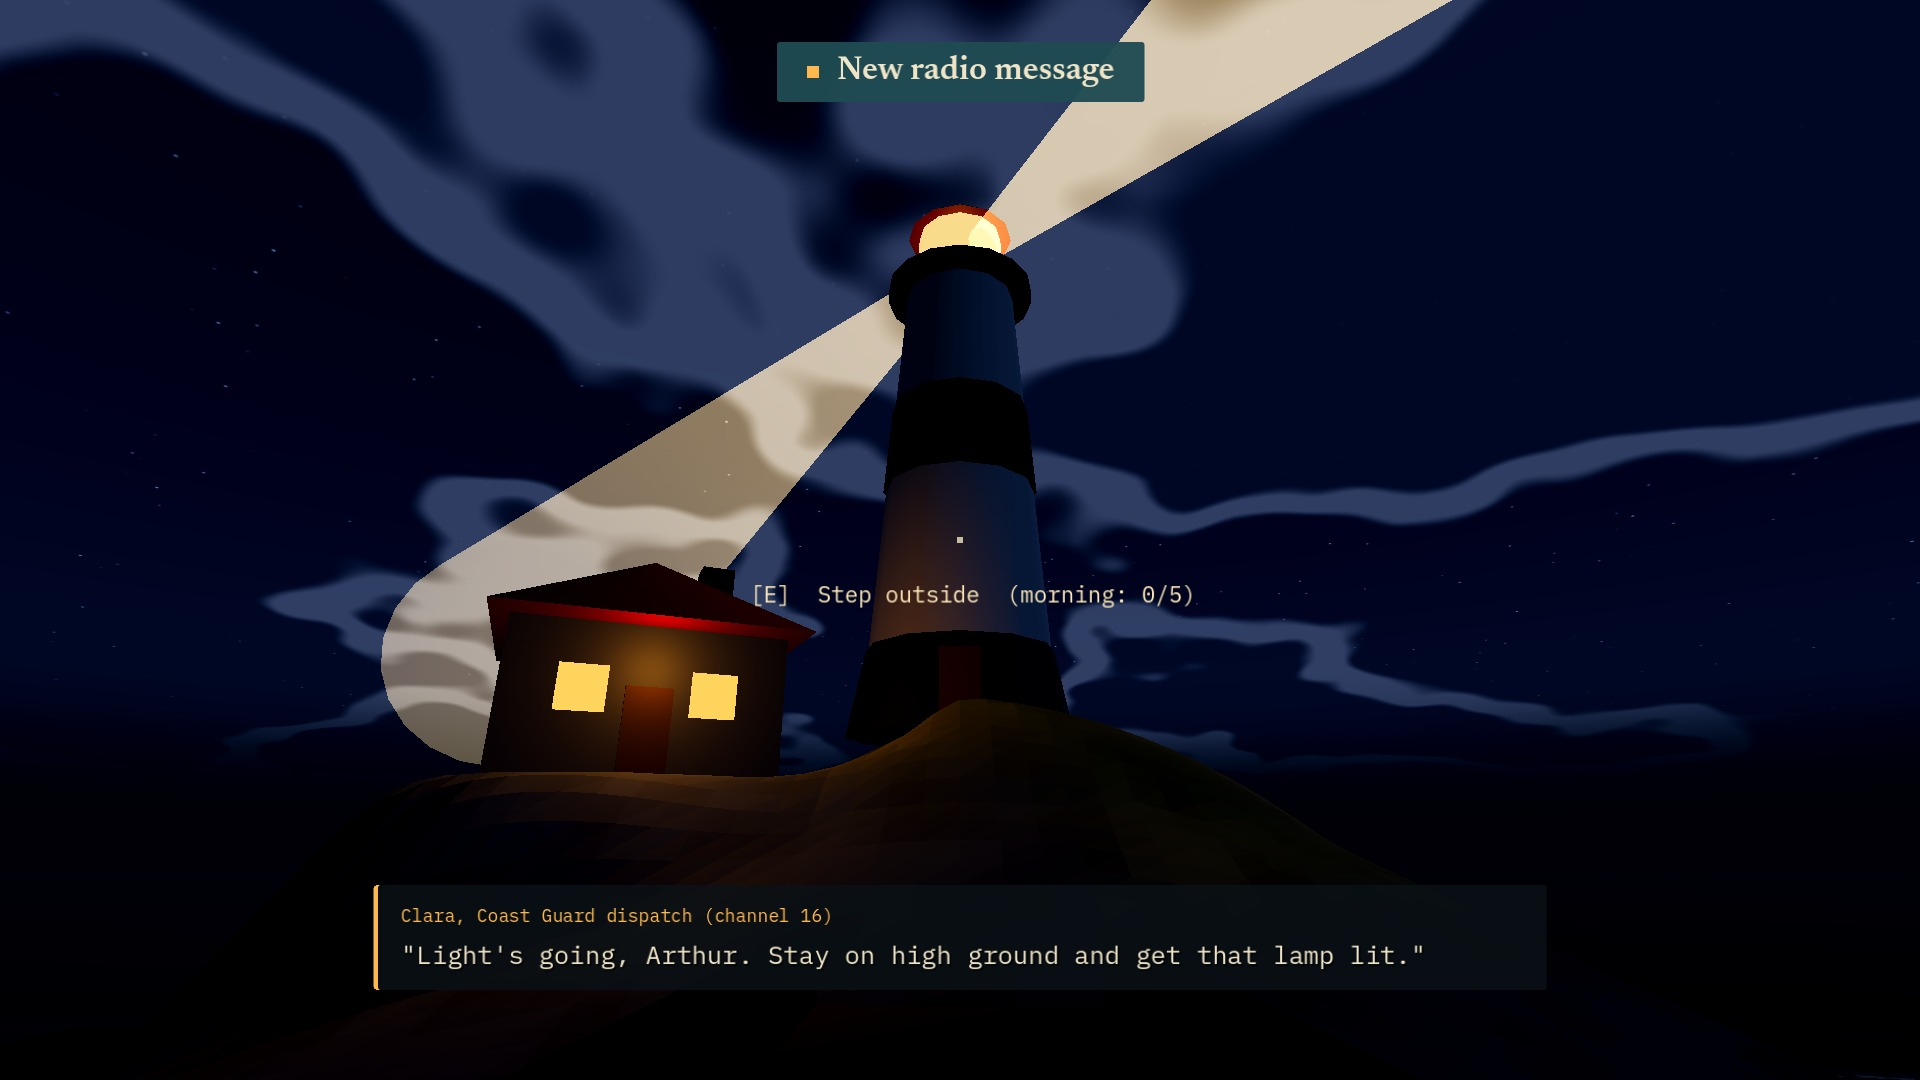
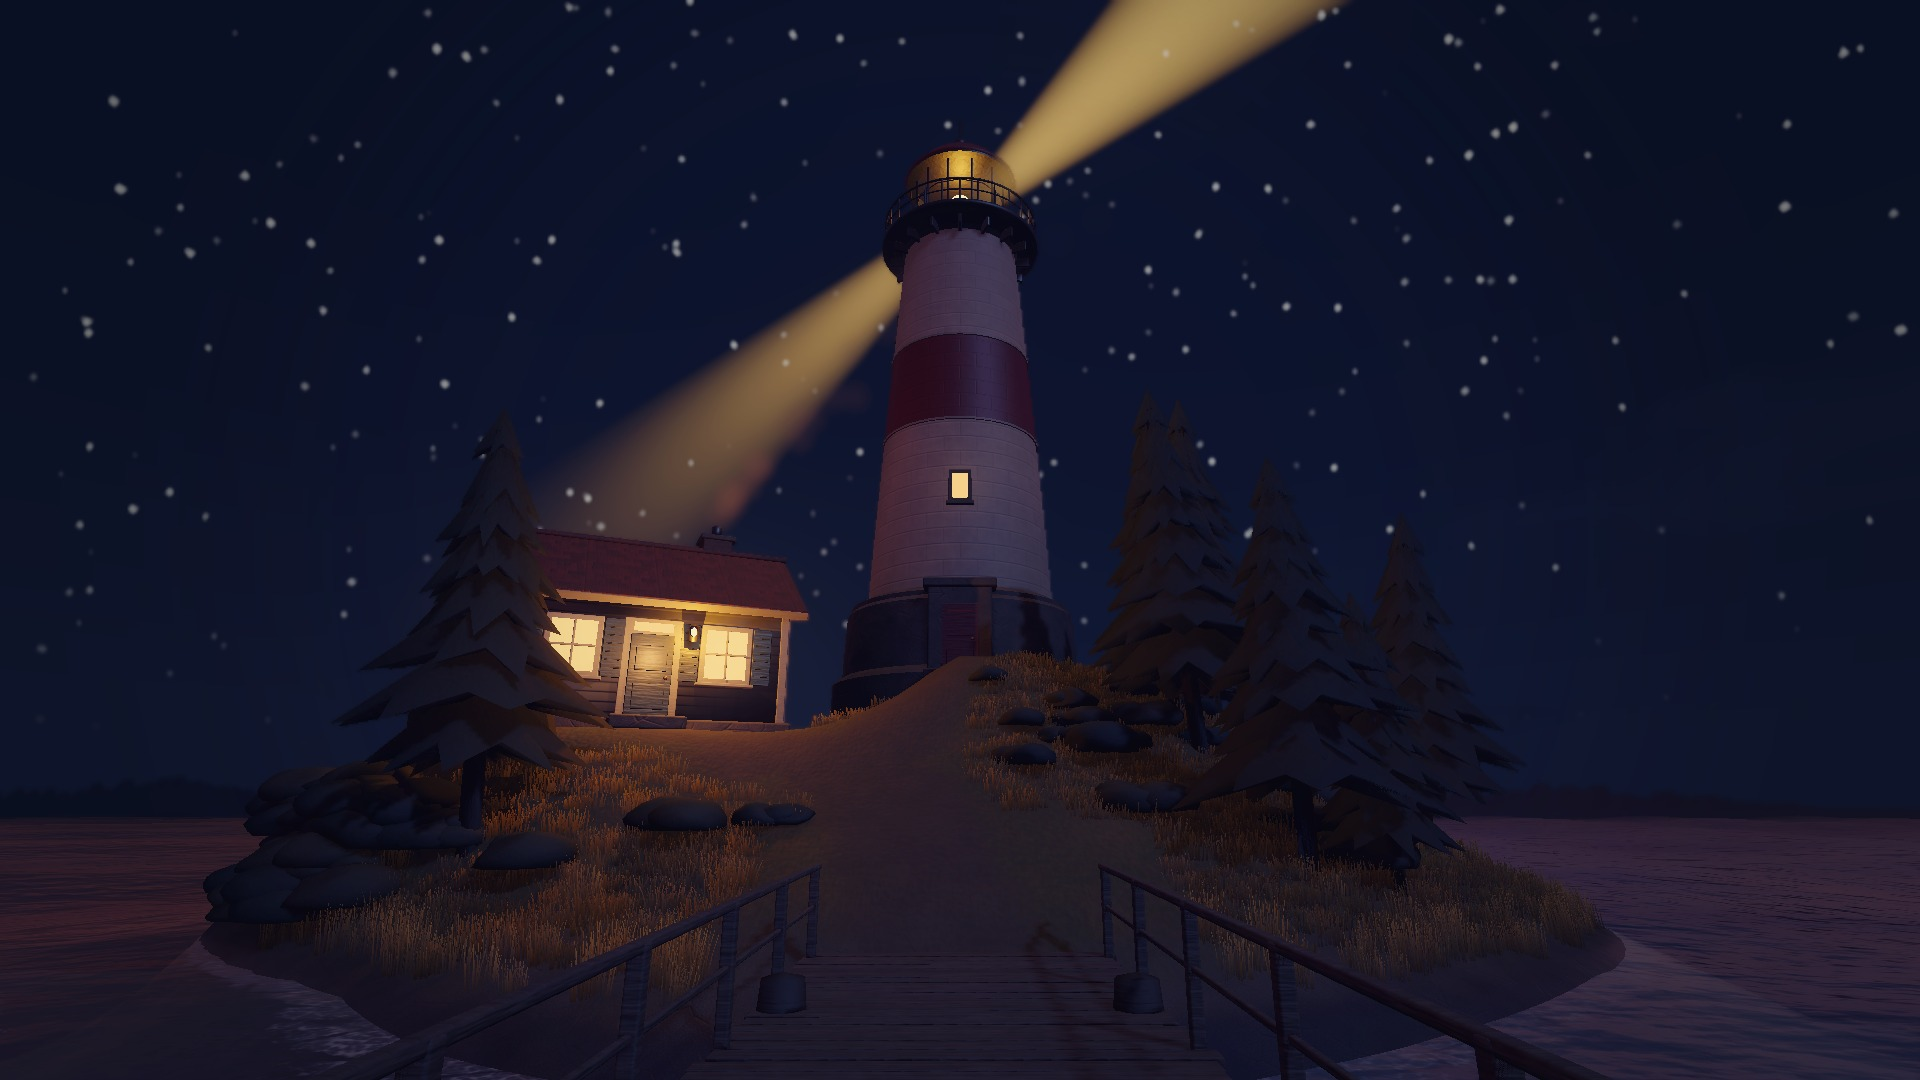
Refresh screenshots and README for the art pass, prologue and new UI
- nine 1920x1080 captures from current main (night beam, golden hour, cottage,
  desk, lantern room, foggy dawn pier, storm, watch room, journal) replace the
  Charm-pass shots; store page media viewer and captions updated
- README: title screen, prologue and setup tutorial, painterly art pipeline,
  new dirs (art, scenes, assets), shots.sh and the extra dev tools, Forward+
- brand guide: the game now uses Cormorant Garamond, Work Sans and Caveat
- Steam README: how to render shots without a GPU, and two caveats about
  tests/screenshot.gd (_tut_go(3) never starts the game; HUD stays hidden)

Claude-Session: https://claude.ai/code/session_01AvtuR6pVzUGNGu5rzrTvFZ

diff --git a/marketing/steam/index.html b/marketing/steam/index.html
@@ -610,16 +610,17 @@ table.st-lang td { padding: 5px 4px; text-align: center; border-top: 1px solid r
     canvas.width = w; canvas.height = h;
     LT.drawScene(canvas.getContext('2d'), w, h, opts);
   }
-  // Real captures from the Godot build (main, Charm pass), 1920 x 1080. See marketing/steam/README.md to retake them.
+  // Real captures from the Godot build (main, after the art pass), 1920 x 1080. See marketing/steam/README.md to retake them.
   const shots = [
-    ['01_night_beam', 'The lamp is lit and the beam sweeps the cottage and the rocks.'],
-    ['02_storm_day', 'Day 4. A storm: the bars stay shut and the pier is slick.'],
-    ['03_south_reef_spring_low', 'Day 5. The spring low uncovers the south reef.'],
-    ['04_causeway_lane', 'The causeway between the poles, open for a short window.'],
-    ['05_causeway_sign', 'Causeway. Spring low water only. Keep between the poles.'],
-    ['06_north_cove', 'The north cove, where the cable runs into the sea.'],
-    ['07_keepers_journal', "The keeper's journal: log, satchel and tapes."],
-    ['08_tide_table', 'The paper tide table for Day 5.'],
+    ['01_night_beam', 'Night on Gannet Rock. The beam sweeps the island.'],
+    ['02_golden_hour', 'Day 5. The last golden light of the spring low.'],
+    ['03_cottage', 'The keeper\'s cottage: stove, radio and a table for the log.'],
+    ['04_desk', 'The desk by the window: the logbook, an oil lamp and the radio.'],
+    ['05_lantern_room', 'The lantern room, where the lamp is lit every evening.'],
+    ['06_dawn_pier', 'Day 1. Dawn in fog on the pier.'],
+    ['07_storm', 'Day 4. The blow. The sea comes over the pier.'],
+    ['08_watch_room', 'The watch room at the foot of the tower.'],
+    ['09_keepers_journal', "The keeper's journal: log, satchel and tapes."],
   ];
   const vimg = $('#viewImg'), thumbs = $('#thumbs');
   function show(i) {
@@ -690,7 +691,7 @@ table.st-lang td { padding: 5px 4px; text-align: center; border-top: 1px solid r
     [1, 'Capsule art at all Steam sizes', 'Header, small, main, vertical, library capsule, library hero, page background, logo, icon.'],
     [1, 'Short description under 300 characters', sd.length + ' characters.'],
     [1, 'About text and tags', 'Drafted on the Store page tab.'],
-    [1, 'Five or more real screenshots, 1920 x 1080', '8 captures in assets/game, taken from main. May be refreshed after the art overhaul lands.'],
+    [1, 'Five or more real screenshots, 1920 x 1080', '9 captures in assets/game, taken from main after the art pass. Retake them if the look changes.'],
     [0, 'Trailer', 'Open on the lamp, end on the tagline and logo.'],
     [0, 'Developer and publisher names', 'Placeholders on the page until confirmed.'],
     [0, 'Release date and price', 'Not decided. Page says To be announced.'],

diff --git a/README.md b/README.md
@@ -4,25 +4,26 @@ A first-person narrative exploration game for PC, made in **Godot 4.4** (GDScrip
 
 January 1998. You are Arthur, the winter keeper of Gannet Rock Light Station, a small island off the coast of Maine. The tide decides where you can walk. The only other voice is Clara, a Coast Guard dispatcher on VHF channel 16. You have seven days.
 
-All seven days and all three endings are implemented. It is still in development: the writing is draft quality, the art is a first pass, and all audio is synthesised placeholder (see [Status](#status)).
+All seven days and all three endings are implemented. The game is still in development: the writing is first-draft quality, and all audio is generated in code (see [Status](#status)).
 
 ## What is in the game
 
-- **Seven days.** Each day has a morning (stove, barometer, tide table, wind the weights, radio check-in with Clara), an expedition (cross the sandbars while the tide allows), and an evening (light the lamp, write the log, call Clara, sleep).
+- **Seven days.** Each day has a morning (stove, barometer, tide table, wind the weights, radio check-in with Clara), an expedition (cross the sandbars while the tide allows, with binoculars and a pocket watch), and an evening (light the lamp, write the log, call Clara, sleep).
 - **The tide is the level design.** A continuous tide model. Low water arrives about 50 minutes later each day. Sandbars close when the water passes 2.1 m. Depth slows you and, if it gets too deep, sweeps you back to the dock. Day 4 is a storm that keeps the range high. Day 5 is a spring low (-0.4 m) that opens the south reef and the causeway.
-- **A radio that never pauses the game.** Clara calls on channel 16. You answer with two choices while you keep moving. Your answers move a hidden Trust value, and what you report or withhold changes what she tells you.
+- **A radio that never pauses the game.** Clara calls on channel 16, sometimes with priority calls. You answer with two choices while you keep moving. Your answers move a hidden Trust value, and what you report or withhold changes what she tells you.
 - **Story objects.** Six cassette tapes, a satchel and a keeper's journal (log, satchel, tapes), bell buoys, a hydrophone, and landmarks: the wreck, the west sea cave, the north cove and the south reef vault.
 - **Three endings:** *The Right Address*, *Left Quiet* and *On the Record*.
+- **Opening.** A title screen with a live view of Gannet Rock at dusk (New watch, Continue the watch, Settings, Quit). New watch plays a prologue of typed fragments from Arthur's year, with choices that set backstory and starting trust, intercut with the tender's crossing in dawn fog. A setup tutorial then lists the controls for keyboard and gamepad before Arthur steps onto the island.
 - **Diegetic interface.** A pocket watch, a paper tide table, painted tide marks on the dock pilings and the journal. An assist readout can be switched on in settings.
 - **Systems.** Autosave and Continue, a pause menu, and full settings: graphics presets (including a Steam Deck preset), audio buses, lighting, remappable keyboard and gamepad bindings, and accessibility options (assist readout, reduce motion, UI and subtitle scale).
-- **Look and sound.** A painted sky with sun and moon, ocean with shoreline foam, and a different weather for each day (fog, overcast, dense fog, storm, clear, cold and clear, dawn haze). Audio is synthesised at startup, with procedural music stings.
+- **Look and sound.** A painterly look: painted sky with sun path and moon, layered colour fog, a Gerstner sea with shoreline foam, and a different weather for each day (fog, overcast, dense fog, storm, clear, cold and clear, dawn haze). Models, materials and textures are generated by scripts in `tools/` and committed. Sound is synthesised at startup: foley, sea and wind beds, and procedural music stings.
 
 ## Status
 
 Work in progress. Be aware of the following:
 
-- The writing is draft quality and is expected to get a polish pass. All of it is editable text in `dialogue/dialogue.json`.
-- There are no audio asset files. Every sound is generated in code (`autoload/audio_director.gd`).
+- The writing, including the prologue, is first-draft quality and is expected to get a polish pass. All of it is editable text in `dialogue/dialogue.json` and `story/`.
+- There are no audio asset files. Every sound is generated in code.
 - Radio lines are text with a procedural squelch. There is no voice acting.
 - Not implemented: localisation, achievements, cloud saves and Steam integration.
 - The Unity port in `unity/` is parked. The Godot project is the reference build.
@@ -30,9 +31,9 @@ Work in progress. Be aware of the following:
 ## Run it
 
 1. Install **Godot 4.4** (the standard build, not .NET). Tested with 4.4.1.
-2. Open `project.godot` in the Godot editor and press **F5**. The main scene is `main.tscn`.
+2. Open `project.godot` in the Godot editor (the first open imports the assets) and press **F5**. The main scene is `main.tscn`. The game starts on the title screen.
 
-The project uses the Forward+ renderer. Screenshots in this repository are rendered with the compatibility renderer (`--rendering-method gl_compatibility`).
+The project uses the Forward+ renderer, so it needs a Vulkan-capable GPU. Export presets for Windows Desktop and Linux / Steam Deck are in `export_presets.cfg`.
 
 Progress is saved to `user://lowtide_save.json` at the start of each day and at wait anchors, and **Continue** on the title screen resumes from it. Settings are in `user://lowtide_settings.cfg`. Endings you have seen are kept in `user://lowtide_endings.json`.
 
@@ -54,11 +55,11 @@ Every binding can be changed in **Settings > Controls**.
 | Assist readout | F1 | Y |
 | Pause | Esc | Start |
 
-Binoculars, the pocket watch and the hold-to-use action can each be switched from hold to toggle in settings. In debug builds, **T** skips time.
+Binoculars, the pocket watch and the hold-to-use action can each be switched from hold to toggle in settings. Holding Esc (or B) skips the prologue. In debug builds, **T** skips time.
 
 ## Tests
 
-The suite is a custom headless runner (`tests/run_tests.gd`). It covers the tide model and depth bands, the clock, dialogue conditions, saves and a simulation of the whole week.
+The suite is a custom headless runner (`tests/run_tests.gd`). It covers the tide model and depth bands, the clock, dialogue conditions, saves, the typography rule and a simulation of the whole week.
 
 ```bash
 GODOT=/path/to/godot tools/run_all_tests.sh
@@ -70,11 +71,14 @@ GODOT=/path/to/godot tools/run_all_tests.sh
 SKIP_DOTNET=1 GODOT=/path/to/godot tools/run_all_tests.sh
 ```
 
-To run only the Godot suite, use `tools/run_tests.sh`. To render screenshots (needs a display or xvfb):
+To run only the Godot suite, use `tools/run_tests.sh`.
 
-```bash
-xvfb-run -a godot --rendering-method gl_compatibility -s tests/screenshot.gd -- /some/output/dir
-```
+## Screenshots and dev tools
+
+- `tools/shots.sh <outdir> [filter]` renders the art vantages from `tests/screenshot.gd` to PNGs. It needs a display or xvfb. On a machine without a GPU, set `LAVAPIPE=1` to use the software Vulkan driver.
+- `tests/ui_shots.gd` renders every boxed UI surface over a game frame at 1280x720 and 1280x800.
+- `tests/perf.gd` reports triangles and draw calls per vantage for a quality preset.
+- `tools/build_assets.sh` rebuilds the generated textures, materials, models and scenes.
 
 ## Repository layout
 
@@ -82,14 +86,17 @@ xvfb-run -a godot --rendering-method gl_compatibility -s tests/screenshot.gd -- 
 |---|---|
 | `main.tscn`, `main.gd` | Entry scene: builds the world, the player and the interface |
 | `autoload/` | Global singletons: game clock, tide system, game state, day director, saves, radio, audio director, tape player, reactive director, settings |
-| `story/` | Day data, conversations, conditions, items, log entries and endings |
+| `story/` | Day data, conversations, conditions, items, log entries, endings and the prologue |
 | `dialogue/` | `dialogue.json`: every radio line, tape and ending text |
-| `world/` | Terrain, island, interiors, ocean, sky, bell buoys, hydrophone, interactables |
+| `world/` | Terrain, island, interiors, ocean, bell buoys, hydrophone, interactables |
+| `art/` | Sky rig, atmosphere, weather looks, painterly shaders |
+| `scenes/` | Generated island and interior scenes |
+| `assets/` | Fonts, generated materials, models and textures |
 | `player/` | First-person controller |
-| `ui/` | HUD, menus, settings menu, pocket watch, binocular shader, theme and bundled fonts |
-| `audio/` | Procedural music sting synthesis (there are no audio files) |
-| `tests/` | The headless test suite and the screenshot tool |
-| `tools/` | Test runners, fixture and audio exporters |
+| `ui/` | HUD, title screen, prologue player, menus, settings menu, pocket watch, theme and fonts |
+| `audio/` | Procedural synthesis for foley, sea and wind, and music stings (there are no audio files) |
+| `tests/` | The headless test suite and the screenshot, UI and perf tools |
+| `tools/` | Test runners, asset generators, fixture and audio exporters |
 | `docs/` | Design and production documents (below) |
 | `unity/` | Parked Unity port of the game logic, with its own README |
 | `reference/` | The original single-file HTML prototype, kept read-only |
@@ -100,6 +107,7 @@ xvfb-run -a godot --rendering-method gl_compatibility -s tests/screenshot.gd -- 
 - [Design bible](docs/design_bible.md): pillars, loop, mechanics and amendments
 - [Production plan](docs/production_plan.md): decisions, milestones and verification
 - [Narrative outline](docs/narrative_outline.md): the truth timeline, the seven days, trust and the endings
+- [Art direction](docs/art_direction.md): the painterly pipeline and how to verify it
 - [Dialogue format](docs/dialogue_format.md): how `dialogue.json` works
 - [Typography](docs/typography.md) and [audio checklist](docs/audio_checklist.md)
 - [Brand guide](docs/brand_guide.md): logo directions, colour, type, voice

diff --git a/marketing/steam/README.md b/marketing/steam/README.md
@@ -8,7 +8,7 @@ Everything for the store page, generated from code so it stays in step with the 
 | `scene.js` | The key-art painter, logo builder and Steam asset specs (`LT.ASSETS`). |
 | `wordmark.js` | Kerned, outlined wordmarks for directions b, c and h (generated). |
 | `assets/*.png` | Art with no logo: library hero, page background, key art. |
-| `assets/game/*.jpg` | Eight real 1920 x 1080 captures from the Godot build (see below). |
+| `assets/game/*.jpg` | Nine real 1920 x 1080 captures from the Godot build (see below). |
 | `assets/b`, `c`, `h` | Steam-sized PNGs per logo direction: header, small, main, vertical and library capsules, library logo, icon. |
 | `logo/b`, `c`, `h` | Vector wordmark, ink wordmark (for light paper), mark and icon per direction. Text is outlined. |
 | `export.mjs` | Renders `assets/` and `logo/`. |
@@ -30,14 +30,18 @@ python3 tools/build_wordmark.py    # only if the wordmark spacing changes (pip i
 
 - Pick one direction (b, c or h) and upload its folder. Capsules carry the logo and are readable at their smallest displayed size.
 - `library_hero.png`, `page_background.png` (fades into the store page blue `#1b2838`) and `key_art.png` contain no text. Steam draws the logo over the library hero.
-- `assets/game` holds eight real captures: the night beam, the storm on Day 4, the south reef and the causeway at the Day 5 spring low, the causeway sign, the north cove, the journal and the tide table.
+- `assets/game` holds nine real captures: the night beam, golden hour at the Day 5 spring low, the cottage, the desk, the lantern room, a foggy dawn pier, the Day 4 storm, the watch room and the keeper's journal.
 - A trailer is still to do.
 
 ## Retaking the screenshots
-The captures come from `tests/screenshot.gd` at 1920 x 1080 (the script itself renders 1280 x 720; change `root.size`). That script leaves the tape-player bar on screen in its later frames, so for store shots hide it after the `15_tape_playing` frame (`main.hud._tape_panel.visible = false`). Needs Godot 4.4 and xvfb:
+The captures come from `tests/screenshot.gd` (see `tools/shots.sh`). Store shots need 1920 x 1080, but the script renders 1280 x 720 (`root.size`), so use a copy with the size changed. On a machine with no GPU the software Vulkan driver works but is slow, about two minutes per frame at 720p, so render only the shots you need. The script takes a name filter, or a comma-separated list if you patch the filter check.
 
 ```bash
-xvfb-run -a -s "-screen 0 1920x1080x24" godot --path . --rendering-method gl_compatibility -s tests/screenshot.gd -- /some/output/dir
+# After godot --headless --import
+VK_ICD_FILENAMES=/opt/lavapipe/lvp_icd.json xvfb-run -a -s "-screen 0 1920x1080x24" \
+  godot --path . --rendering-driver vulkan -s tests/screenshot.gd -- /some/output/dir 31_d5_golden
 ```
 
-These were taken from `main` after the Charm pass (PR #2). The art overhaul in PR #4 will change how the game looks, so retake them once it lands.
+Two things to know about `tests/screenshot.gd` as it stands: it calls `main.hud._tut_go(3)`, which now only shows the last tutorial page. Use `_tut_go(4)` to actually start the game, otherwise every outdoor frame keeps the title screen's camera. It also keeps the HUD hidden, so UI frames need `main.hud.visible = true` (or use `tests/ui_shots.gd`).
+
+The captures here were taken from `main` after the art pass (PR #4), the UI box overhaul (#10) and the audio work. The adaptive score (#7) does not change how the game looks. Retake them if the look changes again.

diff --git a/docs/brand_guide.md b/docs/brand_guide.md
@@ -56,7 +56,7 @@ Amber is for people. About 5 percent of a frame, never above 10.
 ## Type
 Cormorant Garamond (display, taglines, direction B and H), Big Shoulders Stencil Display (direction C title only), IBM Plex Sans (text), IBM Plex Mono (anything the island measures), Caveat (Arthur's logbook only). All SIL OFL, from Google Fonts.
 
-In-game UI type is set separately (`docs/typography.md`: Newsreader, IBM Plex Mono, Caveat, bundled in `ui/fonts/`). Marketing uses Cormorant Garamond for the logo and display, and shares IBM Plex Mono and Caveat with the game.
+The game's own type (`docs/typography.md`) is Cormorant Garamond for the title, cards and prologue, Work Sans for UI, and Caveat for text written on paper. The in-game title is set in sentence case, and the game avoids all-caps UI text. So directions B and H match the in-game title, and direction C (capitals in a stencil face) is the odd one out. Marketing shares Cormorant Garamond and Caveat with the game and adds IBM Plex Mono for small labels.
 
 ## Voice
 Plain, dry, exact. Write like a keeper's log: the number, the time, the thing seen. Never breathless, never jokey.
